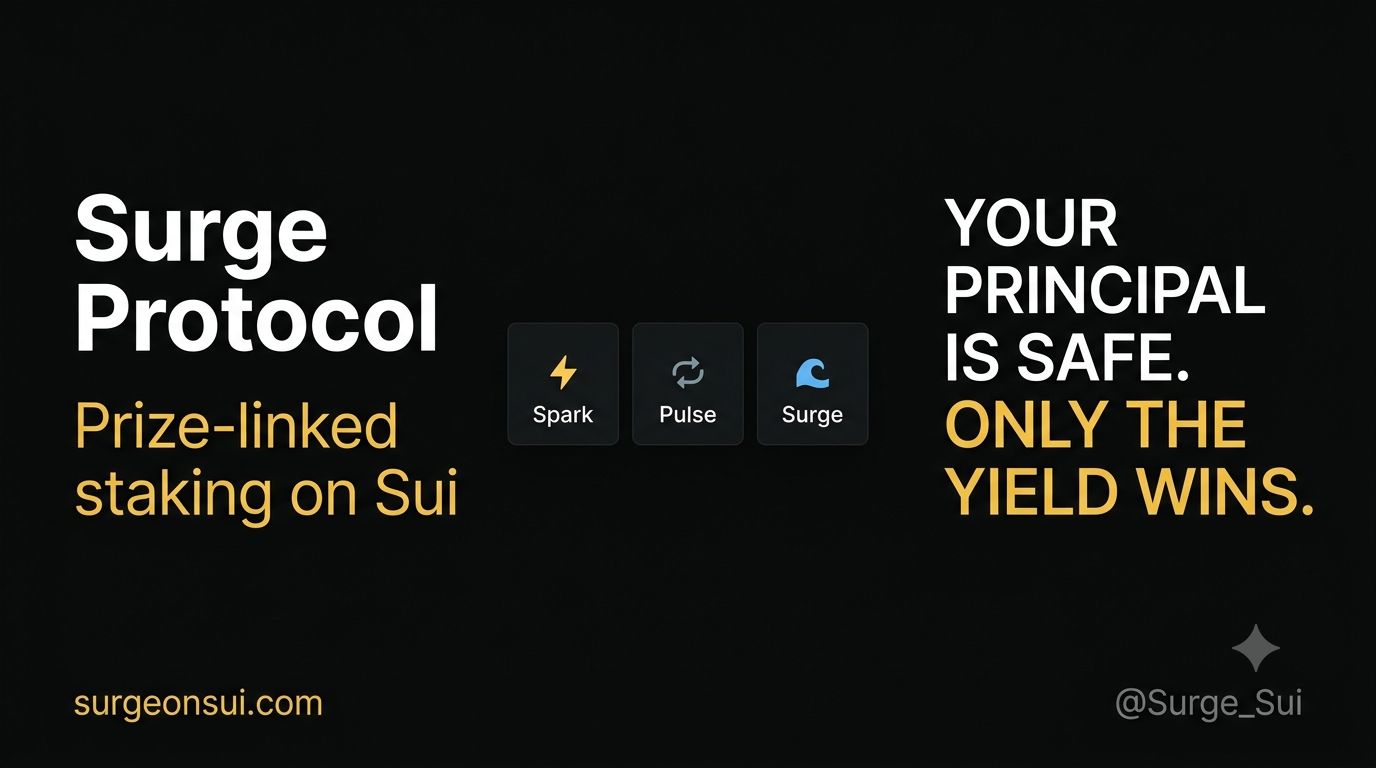
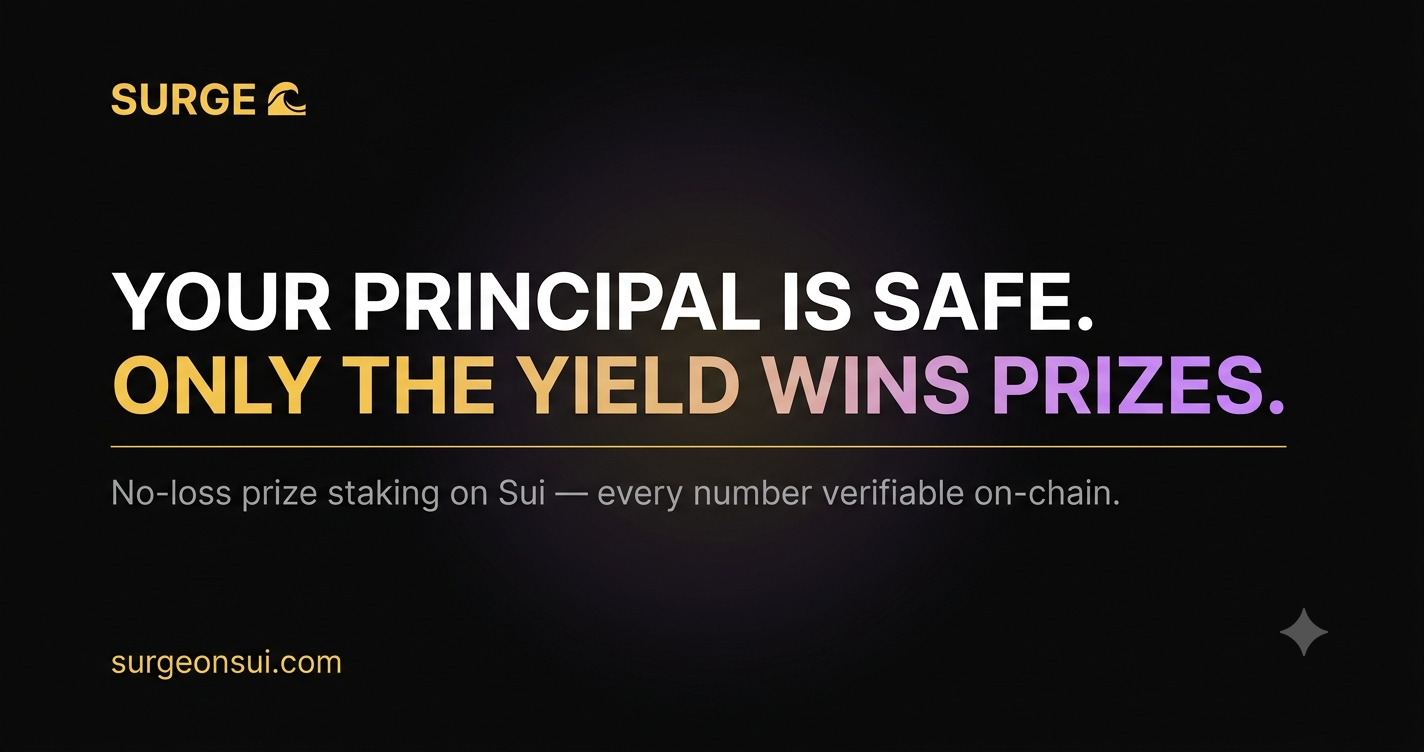
fix: dedupe OG tags, add og:image dimensions + image asset

diff --git a/frontend/index.html b/frontend/index.html
@@ -12,10 +12,11 @@
     <meta name="twitter:card" content="summary_large_image" />
     <meta name="twitter:title" content="Surge Protocol 🌊" />
     <meta name="twitter:description" content="Prize-linked staking on Sui. Only the yield wins prizes." />
-  <meta property="og:image" content="https://surgeonsui.com/og-image.png" />
-<meta name="twitter:image" content="https://surgeonsui.com/og-image.png" />
-<meta property="og:image" content="https://surgeonsui.com/og-image.png" />
-<meta name="twitter:image" content="https://surgeonsui.com/og-image.png" />
+    <meta property="og:type" content="website" />
+    <meta property="og:image" content="https://surgeonsui.com/og-image.png" />
+    <meta property="og:image:width" content="1200" />
+    <meta property="og:image:height" content="630" />
+    <meta name="twitter:image" content="https://surgeonsui.com/og-image.png" />
 </head>
   <body>
     <div id="root"></div>